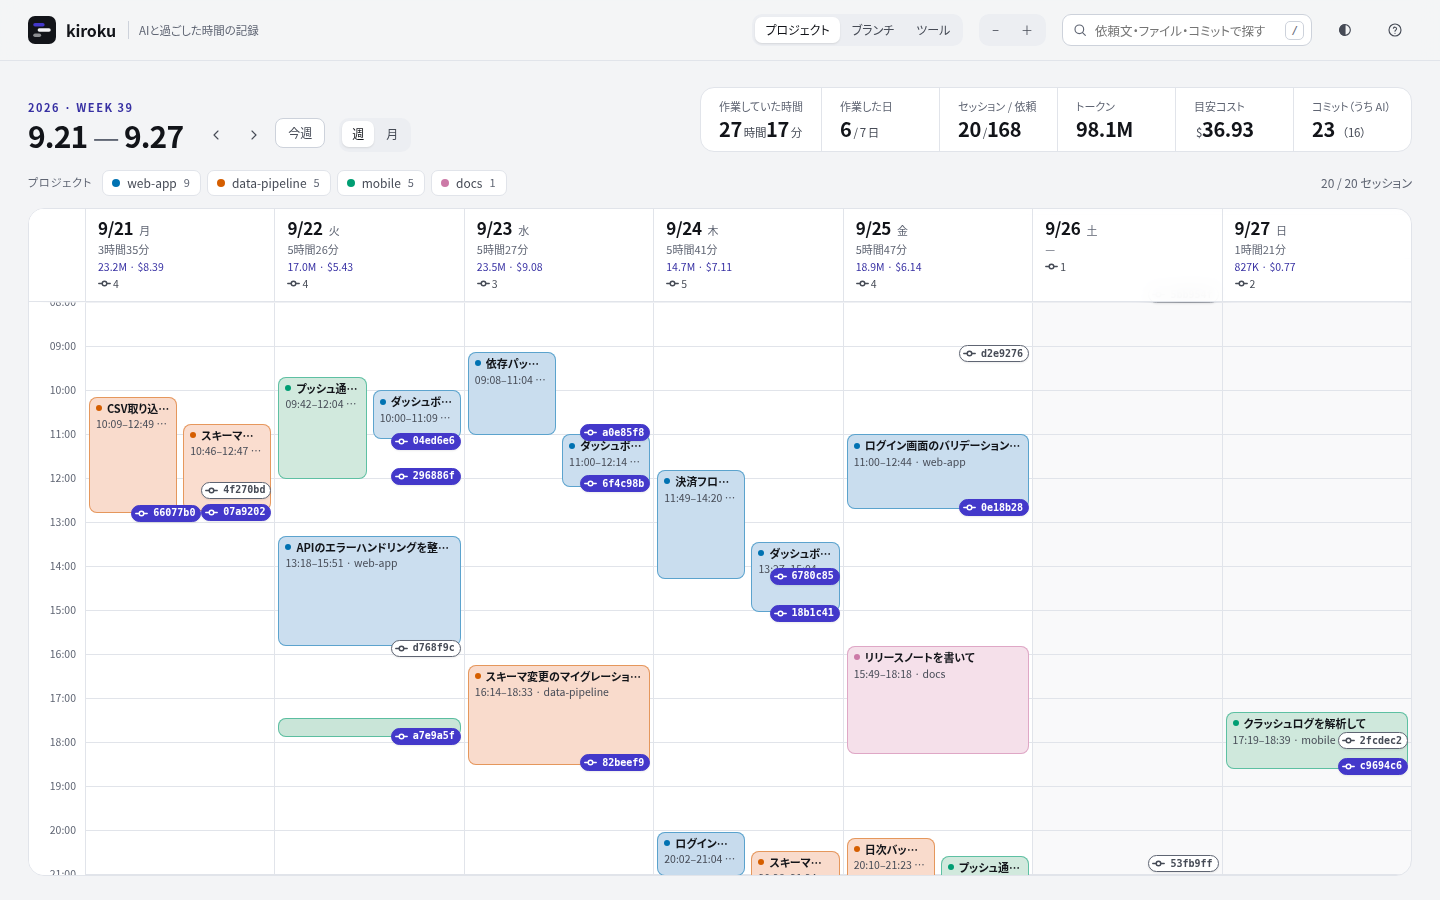
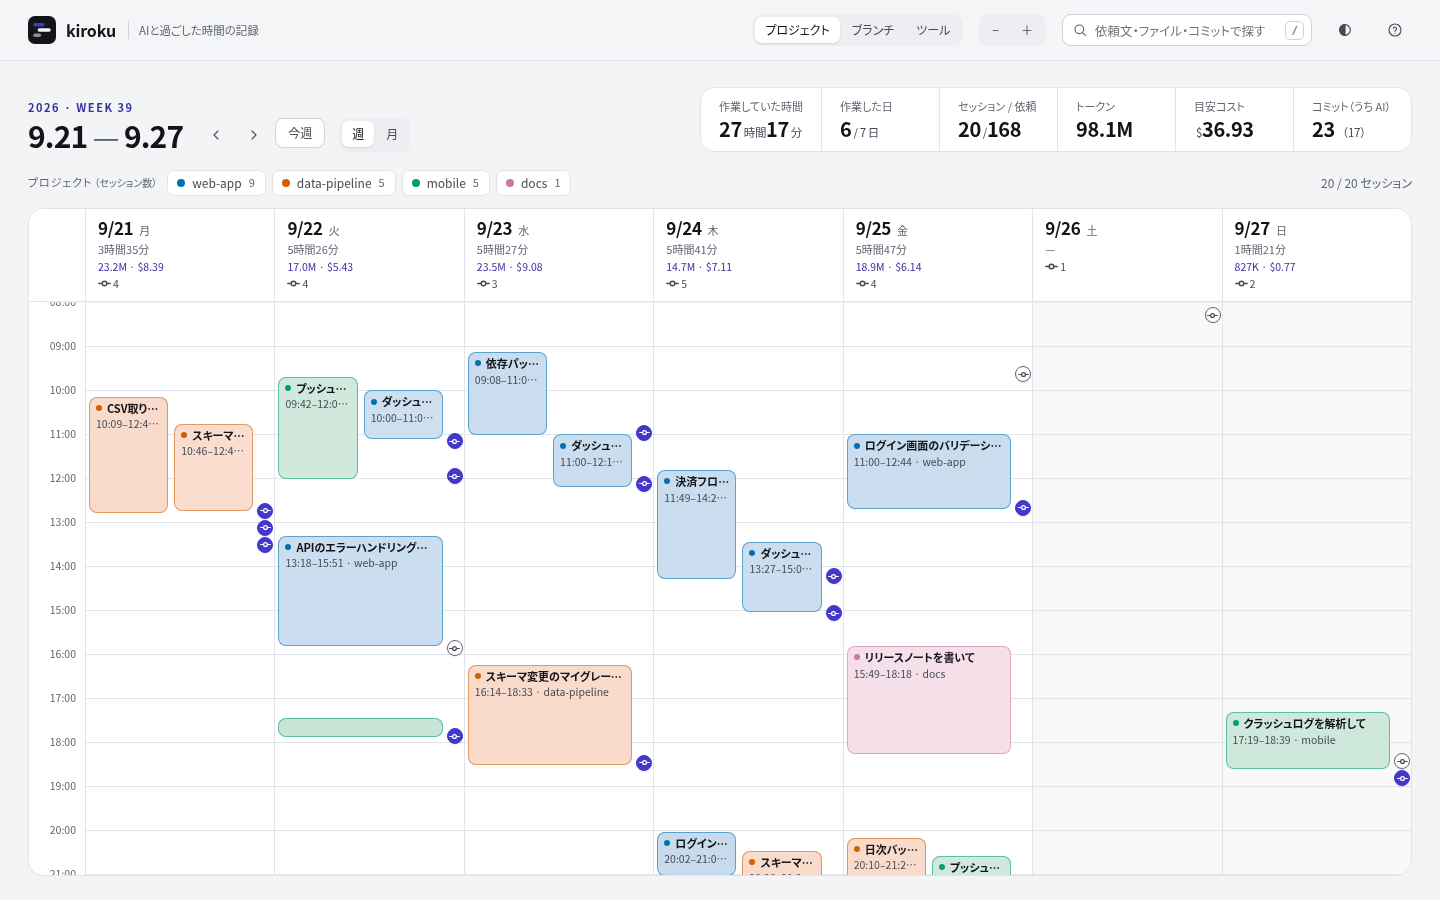
利用者目線のテストで見つかった問題を直す (#43)
- 詳細を開いたらフォーカスを中へ移し、背後を操作できないようにする（inert）。閉じたら開いた帯・カードへ戻す
- 詳細の中で別の詳細へ移ったときは「前の詳細に戻る」で戻れる（最初の詳細では出さない）
- コミットの印を各日の右端の溝に置き、別のセッションの帯の上に重ねない（触れると短いハッシュを表示）
- 検索の一致ラベルを、プロジェクト・ブランチ・ツールに分ける。検索の説明を、実際に探す項目に合わせる
- 「変更した行」を「AI が編集した行（推定）」に改め、Git のコミットの行数は「git の記録で」と明記する
- 週報をコピーしたとき、セッション名を直す必要があることを画面にも出す
- 凡例の数がセッション数だとわかるように。幅の狭い画面でも色分けを選べるように
- 期間を移ったら通知を消す。現在時刻のラベルと目盛りの間隔を広げる
- ガイドとスクリーンショットを更新

Claude-Session: https://claude.ai/code/session_01WXnCm54bK3Mj4QdxNoNc9j

diff --git a/docs/guide.md b/docs/guide.md
@@ -46,9 +46,9 @@ go install github.com/MichinaoShimizu/kiroku@latest
 - 右上の「週 / 月」で表示を切り替えます。月カレンダーでは、日ごとの作業時間を色の濃さで、プロジェクトの内訳を細い帯で表示します。日付をクリックすると、その週の週カレンダーに移動します
 - カレンダーの上に、その週・月の要点（作業していた時間・作業した日・セッション / 依頼・トークン・目安コスト・Kiro クレジット・コミット（うち AI））を表示します。記録のない項目は出しません
 - 日ごとのトークン・目安コスト・クレジットを、週カレンダーの曜日見出しと月カレンダーの各日に表示します。サマリーの「日ごとの使用量」では、3 つを切り替えて棒グラフで確認できます
-- 色分けはプロジェクト / ブランチ / ツール（エージェント）から選べます。凡例をクリックすると表示・非表示を切り替えます
+- 色分けはプロジェクト / ブランチ / ツール（エージェント）から選べます（幅の狭い画面では凡例の左の選択欄から）。凡例の数はセッション数で、クリックすると表示・非表示を切り替えます
 - 帯をクリックすると、詳細を表示します（時刻つきの依頼の流れ、使用したモデル、サブエージェント、使用したツール、変更したファイル、再開コマンド）。広い画面では、左に数値と依頼の流れ（何をしたか）、右にコミット・PR・変更したファイル（何が残ったか）を並べます。「このセッションを AI と振り返る」を押すと、依頼の流れと数値から、依頼の仕方や作業の分け方の改善点を AI に聞くためのプロンプトをコピーします（依頼文を含むので、送る前に確認してください）
-- 週カレンダーのコミットのバッジ（コミットの印と短いハッシュ）をクリックすると、コミットの詳細を表示します（件名・本文・プロジェクト・ブランチ・ハッシュ、変更したファイルごとの追加・削除の行数、そのコミットを作ったセッション、`git show` のコマンド）。セッションの詳細には、そのセッションの間のコミットを並べます
+- 週カレンダーの各日の右端に、コミットの印を時刻の位置に並べます（セッションの帯とは重ねません。触れると短いハッシュを表示します）。印をクリックすると、コミットの詳細を表示します（件名・本文・プロジェクト・ブランチ・ハッシュ、変更したファイルごとの追加・削除の行数、そのコミットを作ったセッション、`git show` のコマンド）。セッションの詳細には、そのセッションの間のコミットを並べます
 - リンクにできるものはリンクにしています
   - git のコミット・変更したファイル：リモート（`origin`）が GitHub・GitLab・Bitbucket などなら、そのコミットとファイルのページを開きます
   - セッションの「変更したファイル」：そのセッションの間のコミットで変わったファイルなら、そのコミットでのファイルのページを開きます
@@ -59,6 +59,7 @@ go install github.com/MichinaoShimizu/kiroku@latest
 - 「AI に改善案を聞く」には、表示中の週・月の集計をもとに、使い方の改善案を AI に聞くためのプロンプトを表示します。「プロンプトをコピー」でコピーし、お使いの AI エージェントに貼り付けて使います（kiroku 自身は AI を呼び出しません）。セッション名（依頼文の一部）とプロジェクト名を含むため、送る前に内容を確認してください
 - 検索（右上、`/`）：依頼文・タイトル・プロジェクト・ブランチに加えて、変更したファイル・PR・そのセッションの間のコミット（件名・ハッシュ・ファイル）も探します。カレンダーは一致したセッションだけを表示し、サマリーの位置に全期間の検索結果（どこに一致したかの抜粋つき）を表示します。結果を押すと、その週を開いて詳細を表示します
 - 週報・月報の下書き：サマリーの見出しの「週報の下書きをコピー」で、プロジェクトごとに、やったこと（セッション名）・コミット・PR を Markdown でコピーします。セッション名は依頼文の冒頭なので、共有する前に確認・編集してください
+- 詳細を開くとフォーカスが詳細の中に移り、閉じると開いた帯やカードに戻ります。詳細の中で別の詳細（コミットやセッション）へ移ったときは「前の詳細に戻る」で戻れます
 - キーボード操作：`←` `→` で週・月を移動、`T` で今週・今月、`W` `M` で週・月を切り替え、`/` で検索、`+` `−` でズーム、`Esc` で詳細を閉じる、`?` で一覧を表示
 - テーマは自動・ライト・ダークから選べます（右上のボタン）。色分け・ズーム・テーマの設定はブラウザに保存されます
 - スマートフォンの画面幅では、週カレンダーを横にスクロールでき、サマリーは 1 列で表示します
@@ -122,7 +123,7 @@ kiroku serve --prices my-prices.json
 | Git のコミット | 手元のリポジトリにある自分のコミット（マージコミットを除く）。そのリポジトリで最初のセッションの前日から読みます |
 | コミット | AI が実行して成功した `git commit` の回数（`--dry-run` を除く）。手で行ったコミットは含みません |
 | PR の作成 | AI が作成した Pull Request の数（`gh pr create` と、名前が `create_pull_request` で終わるツール） |
-| 変更した行 | AI が編集・作成したファイルの、編集前後を比べた追加・削除の行数（目安）。`Edit`・`MultiEdit`・`Write` から数えます |
+| AI が編集した行（推定） | AI が編集・作成したファイルの、編集前後を比べた追加・削除の行数（目安）。`Edit`・`MultiEdit`・`Write` から数えます |
 | コミットまで行ったセッション | 期間中にコミットか PR 作成まで行ったセッションの数と割合 |
 | 1 コミットあたりの目安コスト | 目安コスト ÷ コミットの回数 |
 
@@ -180,7 +181,7 @@ kiroku serve --prices my-prices.json
 | Git のコミット | AI と作業した時間が、どれだけ記録に残る変更になったか | 変更の価値。リポジトリの外の作業や、ほかの人のコミット | 作業時間やコストが多いのにコミットが少ない日は、何に時間を使ったかを確認する |
 | コミット | 作業が区切りまで進んだ回数の目安 | 変更の価値や大きさ。コミットの粒度は人や作業で異なる | コストに対してコミットが少ない期間は、何に時間を使ったかを確認する |
 | PR の作成 | レビューに出せる単位まで仕上がった回数 | マージされたか、価値があったか | 作成までの手戻りが多ければ、依頼の単位を小さくする |
-| 変更した行 | AI が手を入れた量 | 価値や品質（生成コードや整形で大きく増える） | 量そのものを目標にせず、コストとの釣り合いの確認に使う |
+| AI が編集した行（推定） | AI が手を入れた量 | 価値や品質（生成コードや整形で大きく増える） | 量そのものを目標にせず、コストとの釣り合いの確認に使う |
 | コミットまで行ったセッション | 使ったセッションのうち、形に残った割合 | 調査や相談など、コミットを目的としないセッションの価値 | 割合が低ければ、途中で止まったセッションの理由を確かめる |
 | 1 コミットあたりの目安コスト | 区切りまで進めるのにかかった重さの目安 | コミットの大きさの違い。手で行ったコミットは含まない | 推移を見て、同じ作業を軽く進められているかを確かめる |
 | エージェント別の参考指標 | 同じエージェント内での傾向 | エージェント同士の比較（定義が異なる） | 同じエージェントの期間ごとの変化だけを見る |
